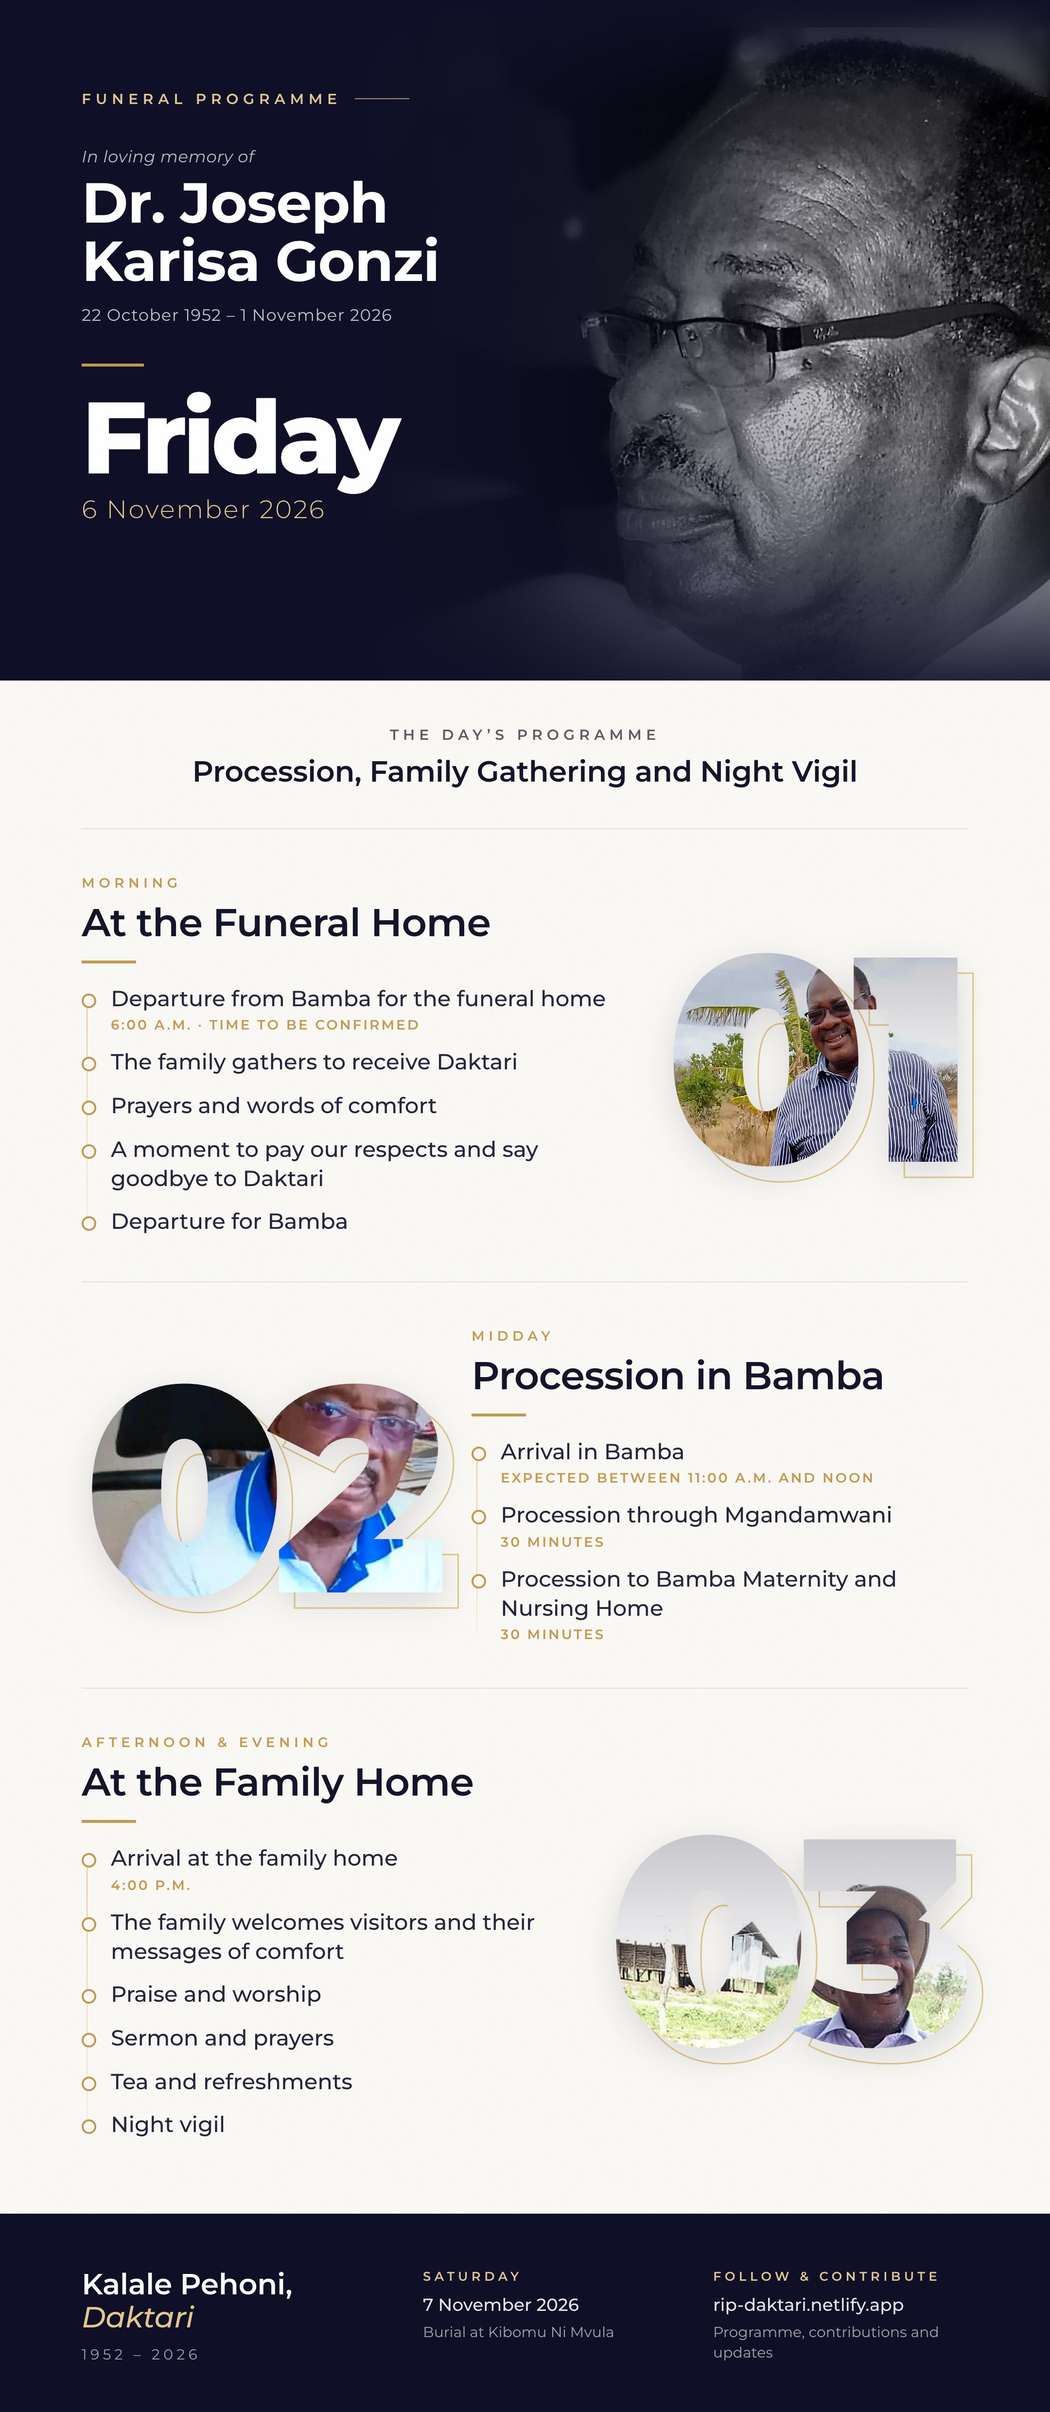
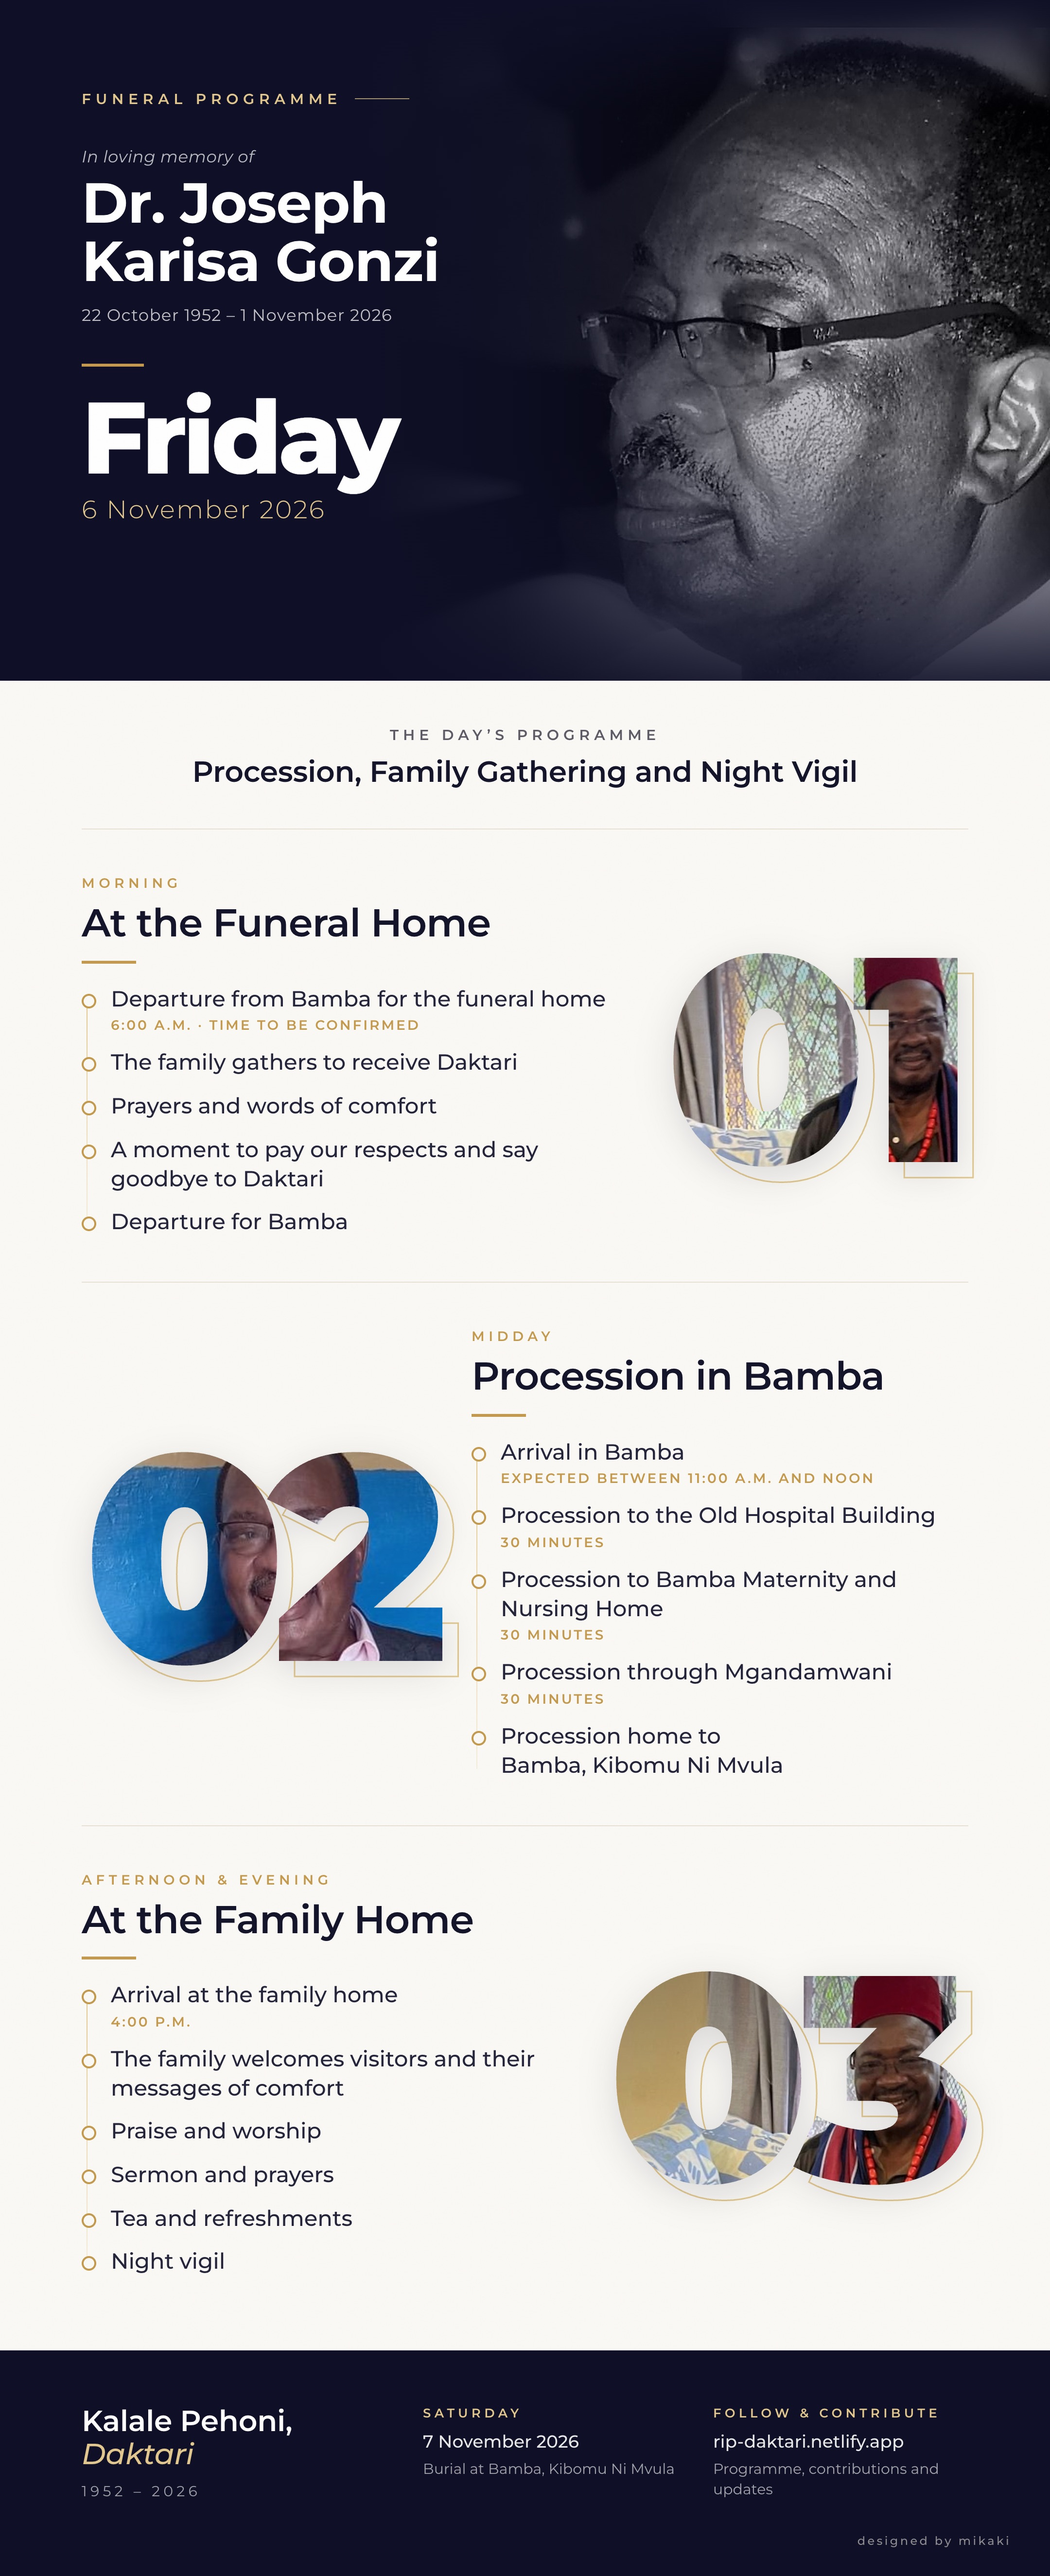
Friday's route through Bamba: Old Hospital Building, Bamba Maternity and Nursing Home, Mgandamwani, then home
The printed programmes now carry the new route, Bamba, Kibomu Ni Mvula, and the designer's mark.

diff --git a/frontend/src/public/programme.ts b/frontend/src/public/programme.ts
@@ -100,8 +100,10 @@ export const PROGRAMME: readonly ProgrammeDay[] = [
         numeral: { src: `${IMG}/desk.jpg`, size: 1.8667, x: -0.1333, y: -0.2 },
         items: [
           { text: ["Arrival in Bamba", "Kuwasili Bamba"], note: ["Expected between 11:00 a.m. and noon", "Inatarajiwa kati ya saa 11:00 na 12:00"] },
-          { text: ["Procession through Mgandamwani", "Msafara kupitia Mgandamwani"], note: ["30 minutes", "Dakika 30"] },
+          { text: ["Procession to the Old Hospital Building", "Msafara hadi Old Hospital Building"], note: ["30 minutes", "Dakika 30"] },
           { text: ["Procession to Bamba Maternity and Nursing Home", "Msafara hadi Bamba Maternity and Nursing Home"], note: ["30 minutes", "Dakika 30"] },
+          { text: ["Procession through Mgandamwani", "Msafara kupitia Mgandamwani"], note: ["30 minutes", "Dakika 30"] },
+          { text: ["Procession home to Bamba, Kibomu Ni Mvula", "Msafara kuelekea nyumbani, Bamba, Kibomu Ni Mvula"] },
         ],
       },
       {
